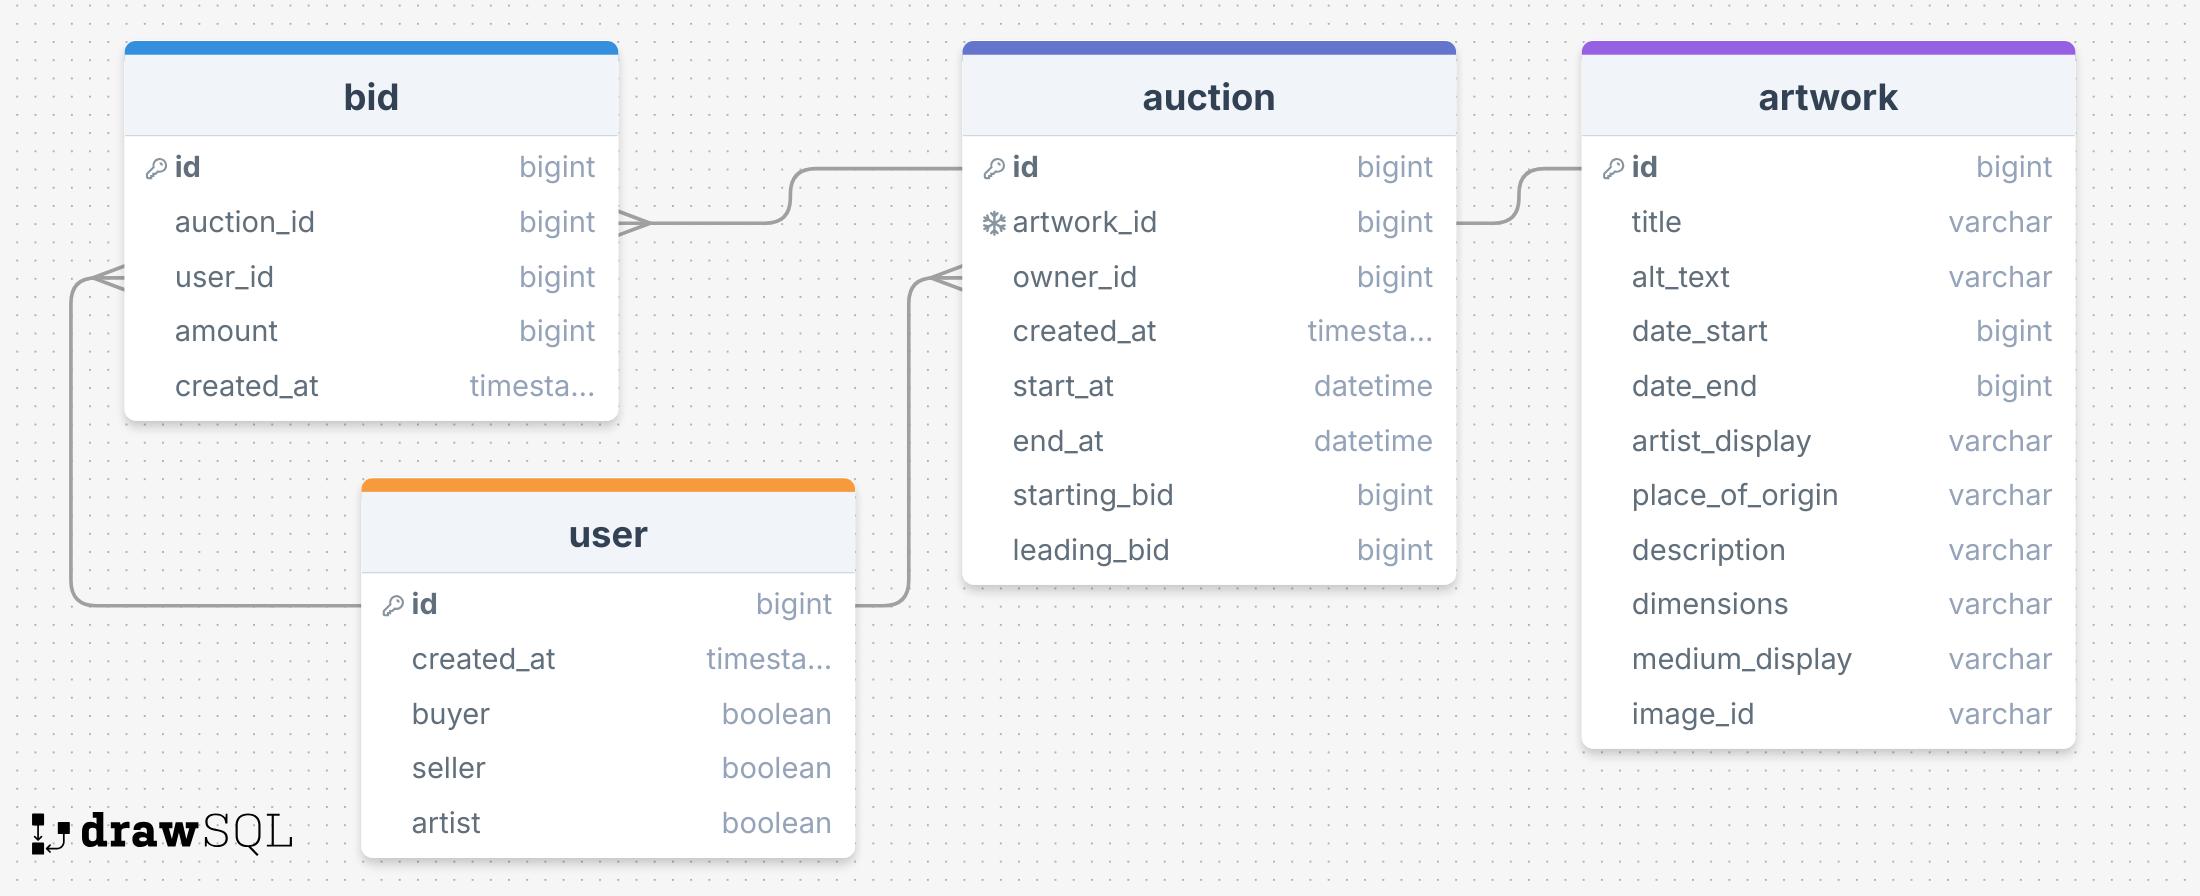
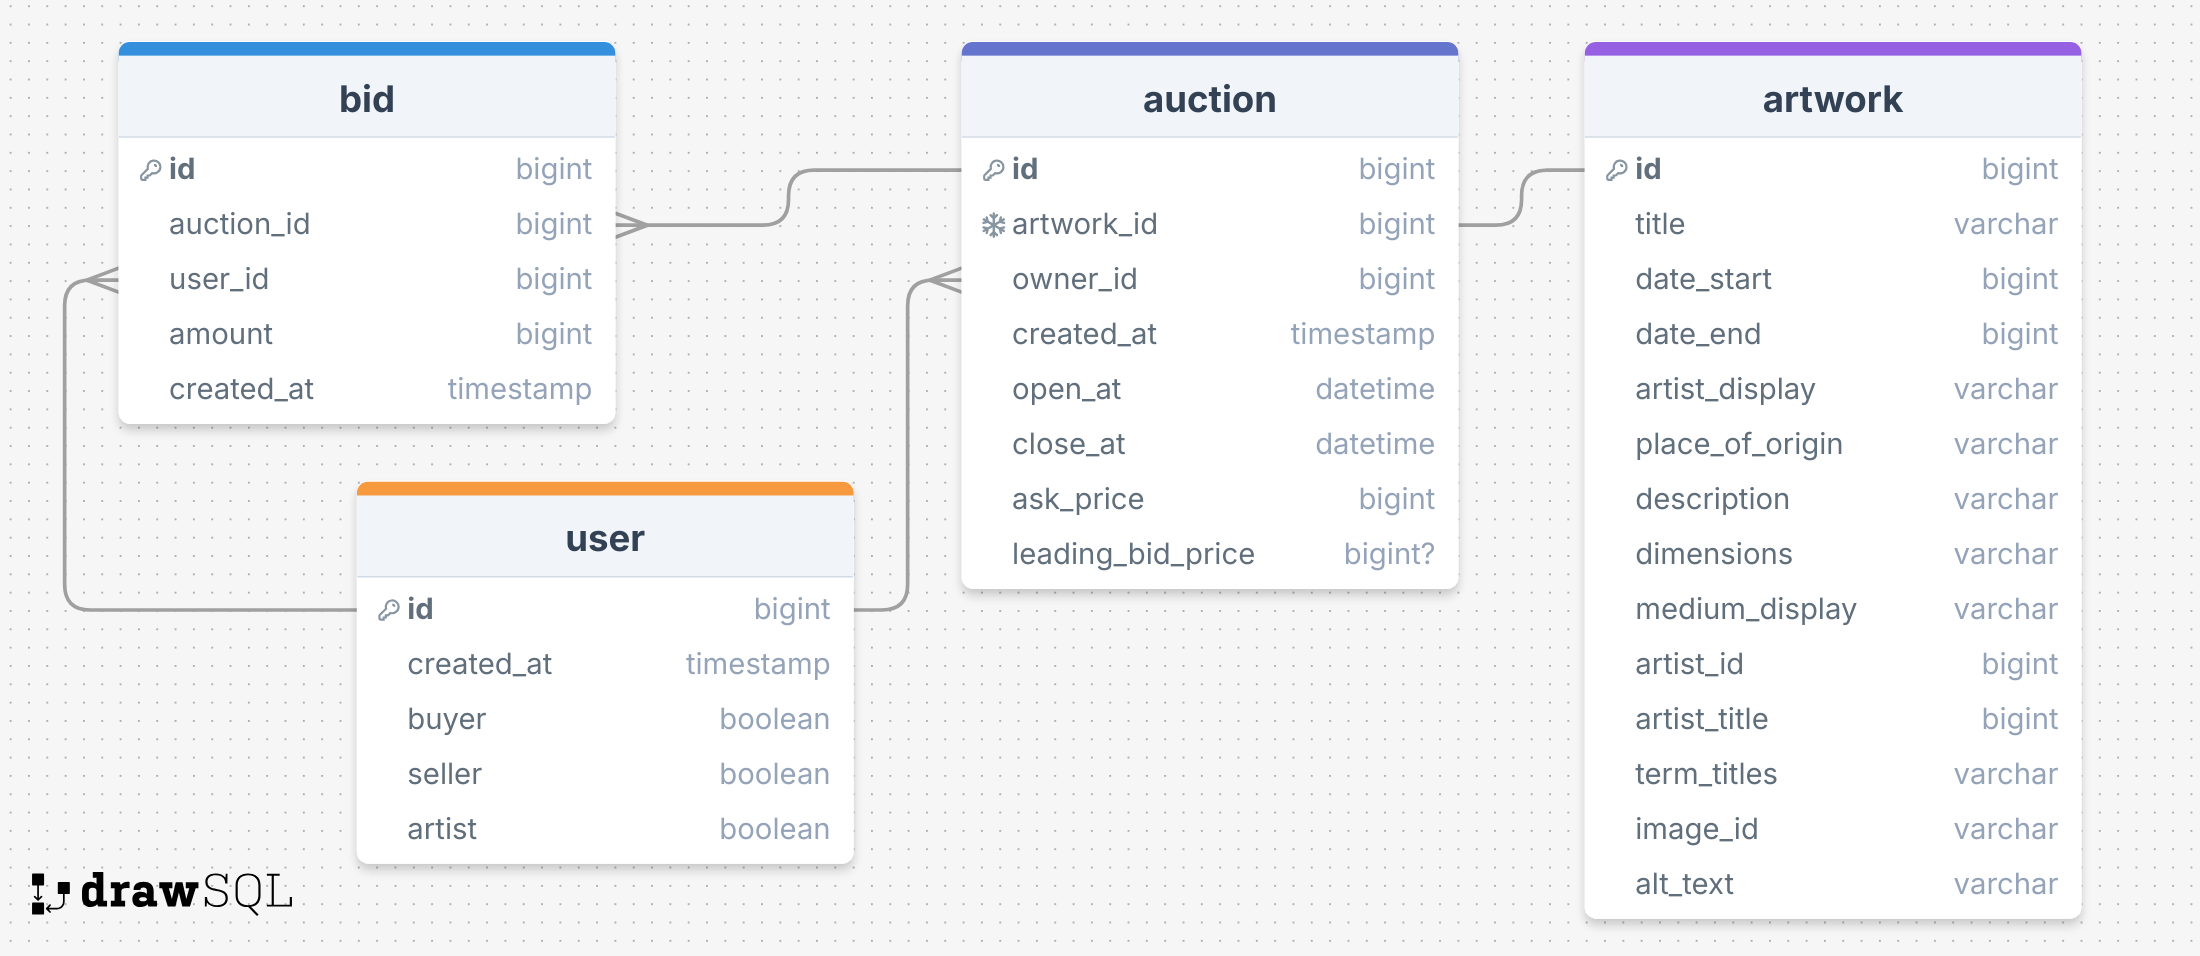
artworks migration

diff --git a/migrations/20241129215803_artworks_table.js b/migrations/20241129215803_artworks_table.js
@@ -3,7 +3,22 @@
  * @returns { Promise<void> }
  */
 export function up(knex) {
-    return knex.schema
+    return knex.schema.createTable("artwork", (table) => {
+        table.integer("id").unsigned().primary();
+        table.string("title");
+        table.integer("date_start").unsigned();
+        table.integer("end_start").unsigned();
+        table.string("artist_display");
+        table.string("place_of_origin");
+        table.string("description");
+        table.string("dimensions");
+        table.string("medium_display");
+        table.integer("artist_id").unsigned();
+        table.string("artist_title");
+        table.string("term_titles");
+        table.string("image_id");
+        table.string("alt_text");
+    });
 };
 
 /**
@@ -11,5 +26,5 @@ export function up(knex) {
  * @returns { Promise<void> }
  */
 export function down(knex) {
-    return knex.schema
+    return knex.schema.dropTable("artwork");
 };

diff --git a/migrations/20241129215829_auction_table.js b/migrations/20241129215829_auction_table.js
@@ -19,8 +19,8 @@ export function up(knex) {
             .onDelete("CASCADE");
         table.timestamp("open_at").notNullable();
         table.timestamp("close_at").notNullable();
-        table.integer("ask_price").notNullable();
-        table.integer("leading_bid_price").notNullable;
+        table.integer("ask_price").unsigned().notNullable();
+        table.integer("leading_bid_price").unsigned().notNullable;
         table.timestamp('created_at').defaultTo(knex.fn.now());
     });
 };

diff --git a/migrations/20241129215842_bid_table.js b/migrations/20241129215842_bid_table.js
@@ -17,7 +17,7 @@ export function up(knex) {
             .references("user.id")
             .onUpdate("CASCADE")
             .onDelete("CASCADE");
-        table.integer("amount").notNullable();
+        table.integer("amount").unsigned().notNullable();
         table.timestamp("created_at").defaultTo(knex.fn.now());
     });
 };
